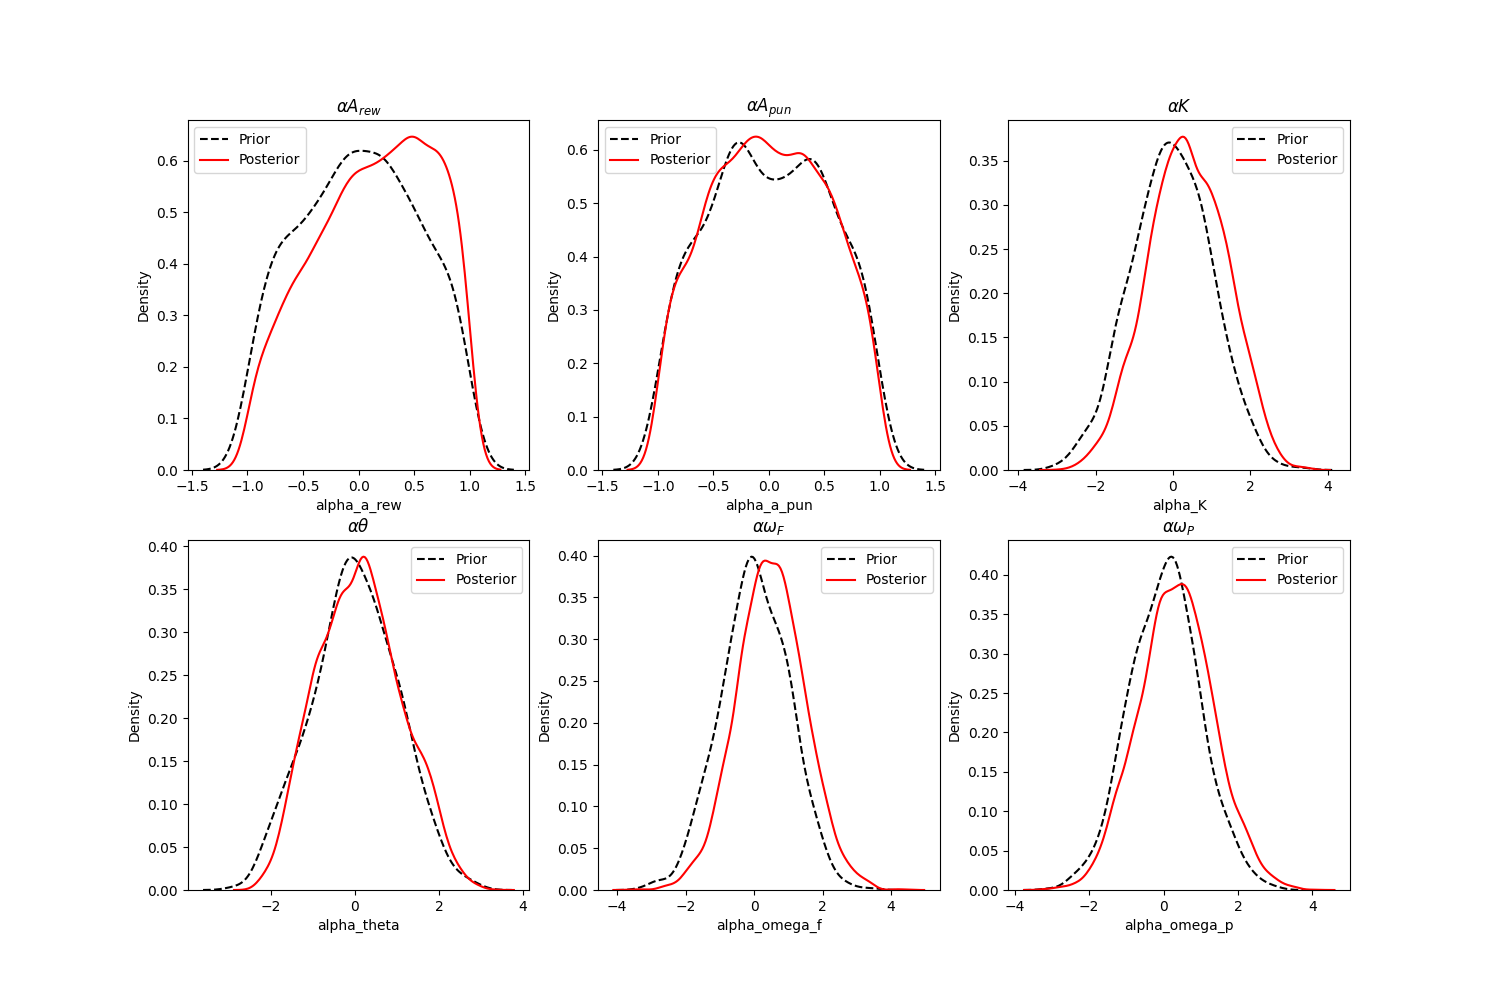
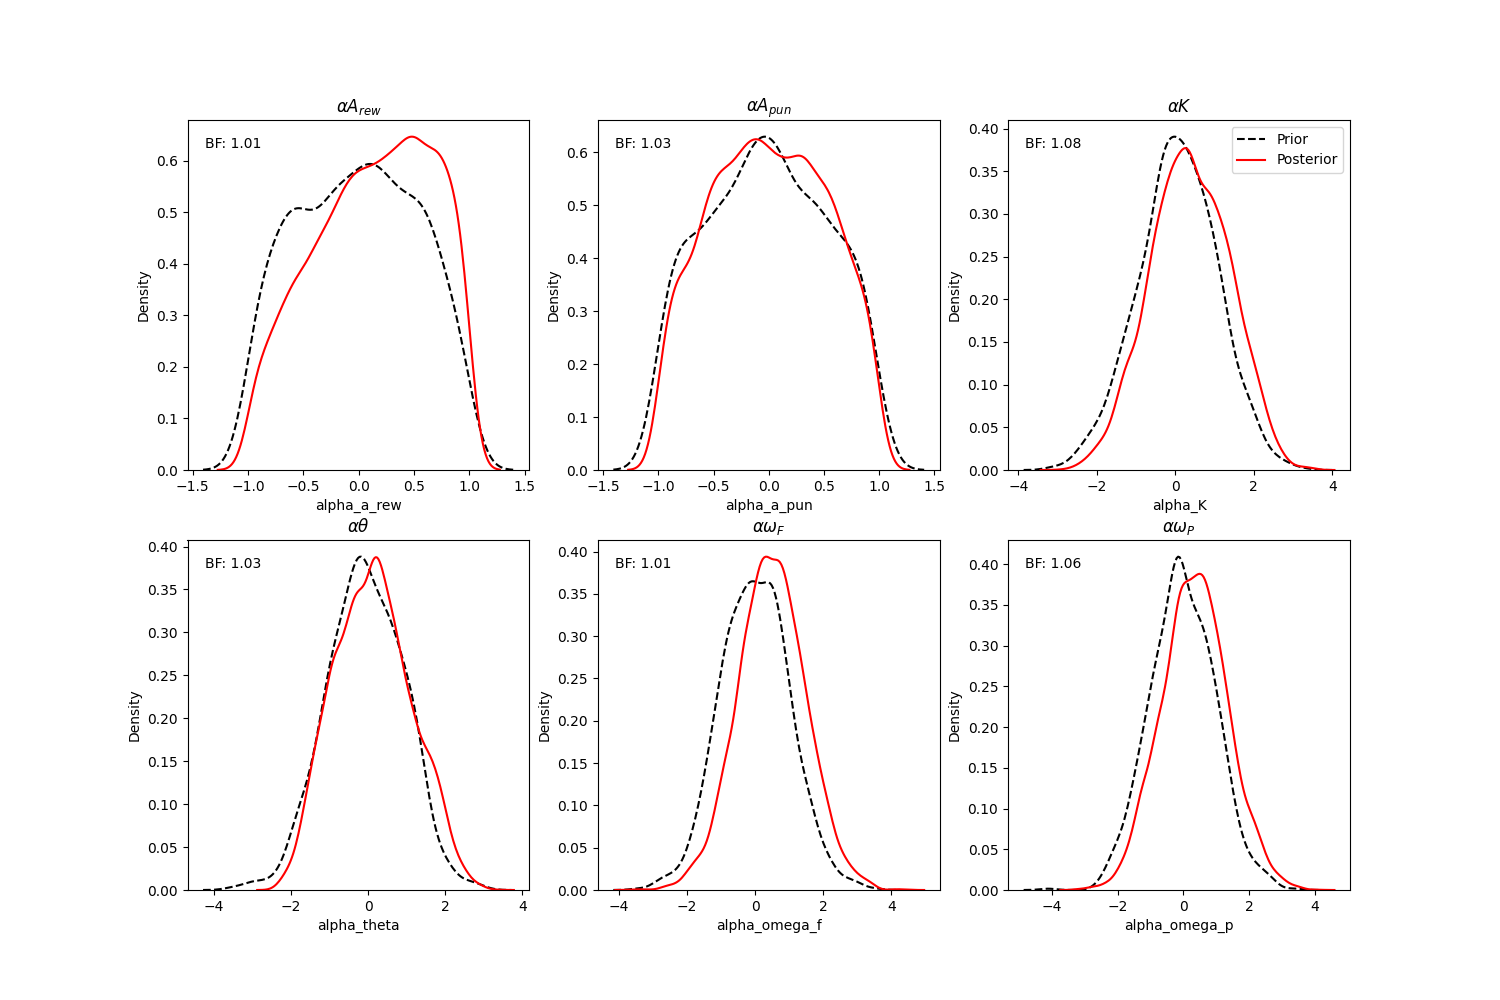
plot BF

diff --git a/src/comparison/plot_comparison.py b/src/comparison/plot_comparison.py
@@ -3,7 +3,7 @@ import matplotlib.pyplot as plt
 import numpy as np
 import pandas as pd
 import seaborn as sns
-from scipy.stats import truncnorm, gamma, binom
+from scipy.stats import truncnorm, gamma, binom, gaussian_kde
 
 def chance_level(n, alpha = 0.001, p = 0.5):
     k = binom.ppf(1-alpha, n, p)
@@ -15,38 +15,56 @@ def sample_truncated_normal(mean, sd, lower, upper, size=1000):
     a, b = (lower - mean) / sd, (upper - mean) / sd
     return truncnorm.rvs(a, b, loc=mean, scale=sd, size=size)
 
-def savage_dickey_plot(data, parameters=[("alpha_a_rew", "$\\alpha A_{rew}$"), ("alpha_a_pun", "$\\alpha A_{pun}$"), ("alpha_K", "$\\alpha K$"), ("alpha_theta","$\\alpha \\theta$"), ("alpha_omega_f","$\\alpha \omega_F$"), ("alpha_omega_p", "$\\alpha \omega_P$")], save_path = None):
+def savage_dickey_plot(data, parameters=[("alpha_a_rew", "$\\alpha A_{rew}$"), ("alpha_a_pun", "$\\alpha A_{pun}$"), ("alpha_K", "$\\alpha K$"), ("alpha_theta","$\\alpha \\theta$"), ("alpha_omega_f","$\\alpha \omega_F$"), ("alpha_omega_p", "$\\alpha \omega_P$")], save_path=None):
     # initialize plot
-    fig, ax = plt.subplots(2,3, figsize=(15,10))
+    fig, ax = plt.subplots(2, 3, figsize=(15, 10))
 
     # define priors
     priors = {
-            "alpha_a_rew": lambda size: sample_truncated_normal(0, 1, -1, 1, size),
-            "alpha_a_pun": lambda size: sample_truncated_normal(0, 1, -1, 1, size),
-            "alpha_K": lambda size: np.random.normal(0, 1, size),
-            "alpha_theta": lambda size: np.random.normal(0, 1, size),
-            "alpha_omega_f": lambda size: np.random.normal(0, 1, size),
-            "alpha_omega_p": lambda size: np.random.normal(0, 1, size)
-            # Add other priors if necessary
-        }
-    
+        "alpha_a_rew": lambda size: sample_truncated_normal(0, 1, -1, 1, size),
+        "alpha_a_pun": lambda size: sample_truncated_normal(0, 1, -1, 1, size),
+        "alpha_K": lambda size: np.random.normal(0, 1, size),
+        "alpha_theta": lambda size: np.random.normal(0, 1, size),
+        "alpha_omega_f": lambda size: np.random.normal(0, 1, size),
+        "alpha_omega_p": lambda size: np.random.normal(0, 1, size)
+        # Add other priors if necessary
+    }
+
     # loop over parameters and plot
     for i, (param, name) in enumerate(parameters):
         # define axes
         x = ax[i//3, i%3]
 
-        # plot prior
-        sns.kdeplot(priors[param](1000), ax=x, color="black", linestyle="--", label="Prior")
+        # generate prior and posterior samples
+        prior_samples = priors[param](1000)
+        posterior_samples = data[param]
 
-        # plot posterior
-        sns.kdeplot(data[param], ax=x, color="red", linestyle="-", label="Posterior")
+        # create KDE for prior and posterior
+        prior_kde = gaussian_kde(prior_samples)
+        posterior_kde = gaussian_kde(posterior_samples)
+
+        # calculate densities at the critical value 0
+        prior_density_at_0 = prior_kde(0)
+        posterior_density_at_0 = posterior_kde(0)
+
+        # calculate Savage-Dickey density ratio (increasing the belief that there is no difference or effect)
+        BF = prior_density_at_0 / posterior_density_at_0
+
+        # plot prior and posterior
+        sns.kdeplot(prior_samples, ax=x, color="black", linestyle="--", label="Prior")
+        sns.kdeplot(posterior_samples, ax=x, color="red", linestyle="-", label="Posterior")
 
         # set title
         x.set_title(name)
 
-        # set legend
-        x.legend()
-    
+        # only add legend to plot number 3
+        if i == 2:
+            x.legend()
+
+        # annotate Savage-Dickey density ratio
+        x.text(0.05, 0.95, f"BF: {BF[0]:.2f}", transform=x.transAxes, verticalalignment='top')
+
+    # save plot if a path is provided
     if save_path is not None:
         plt.savefig(save_path)
 
